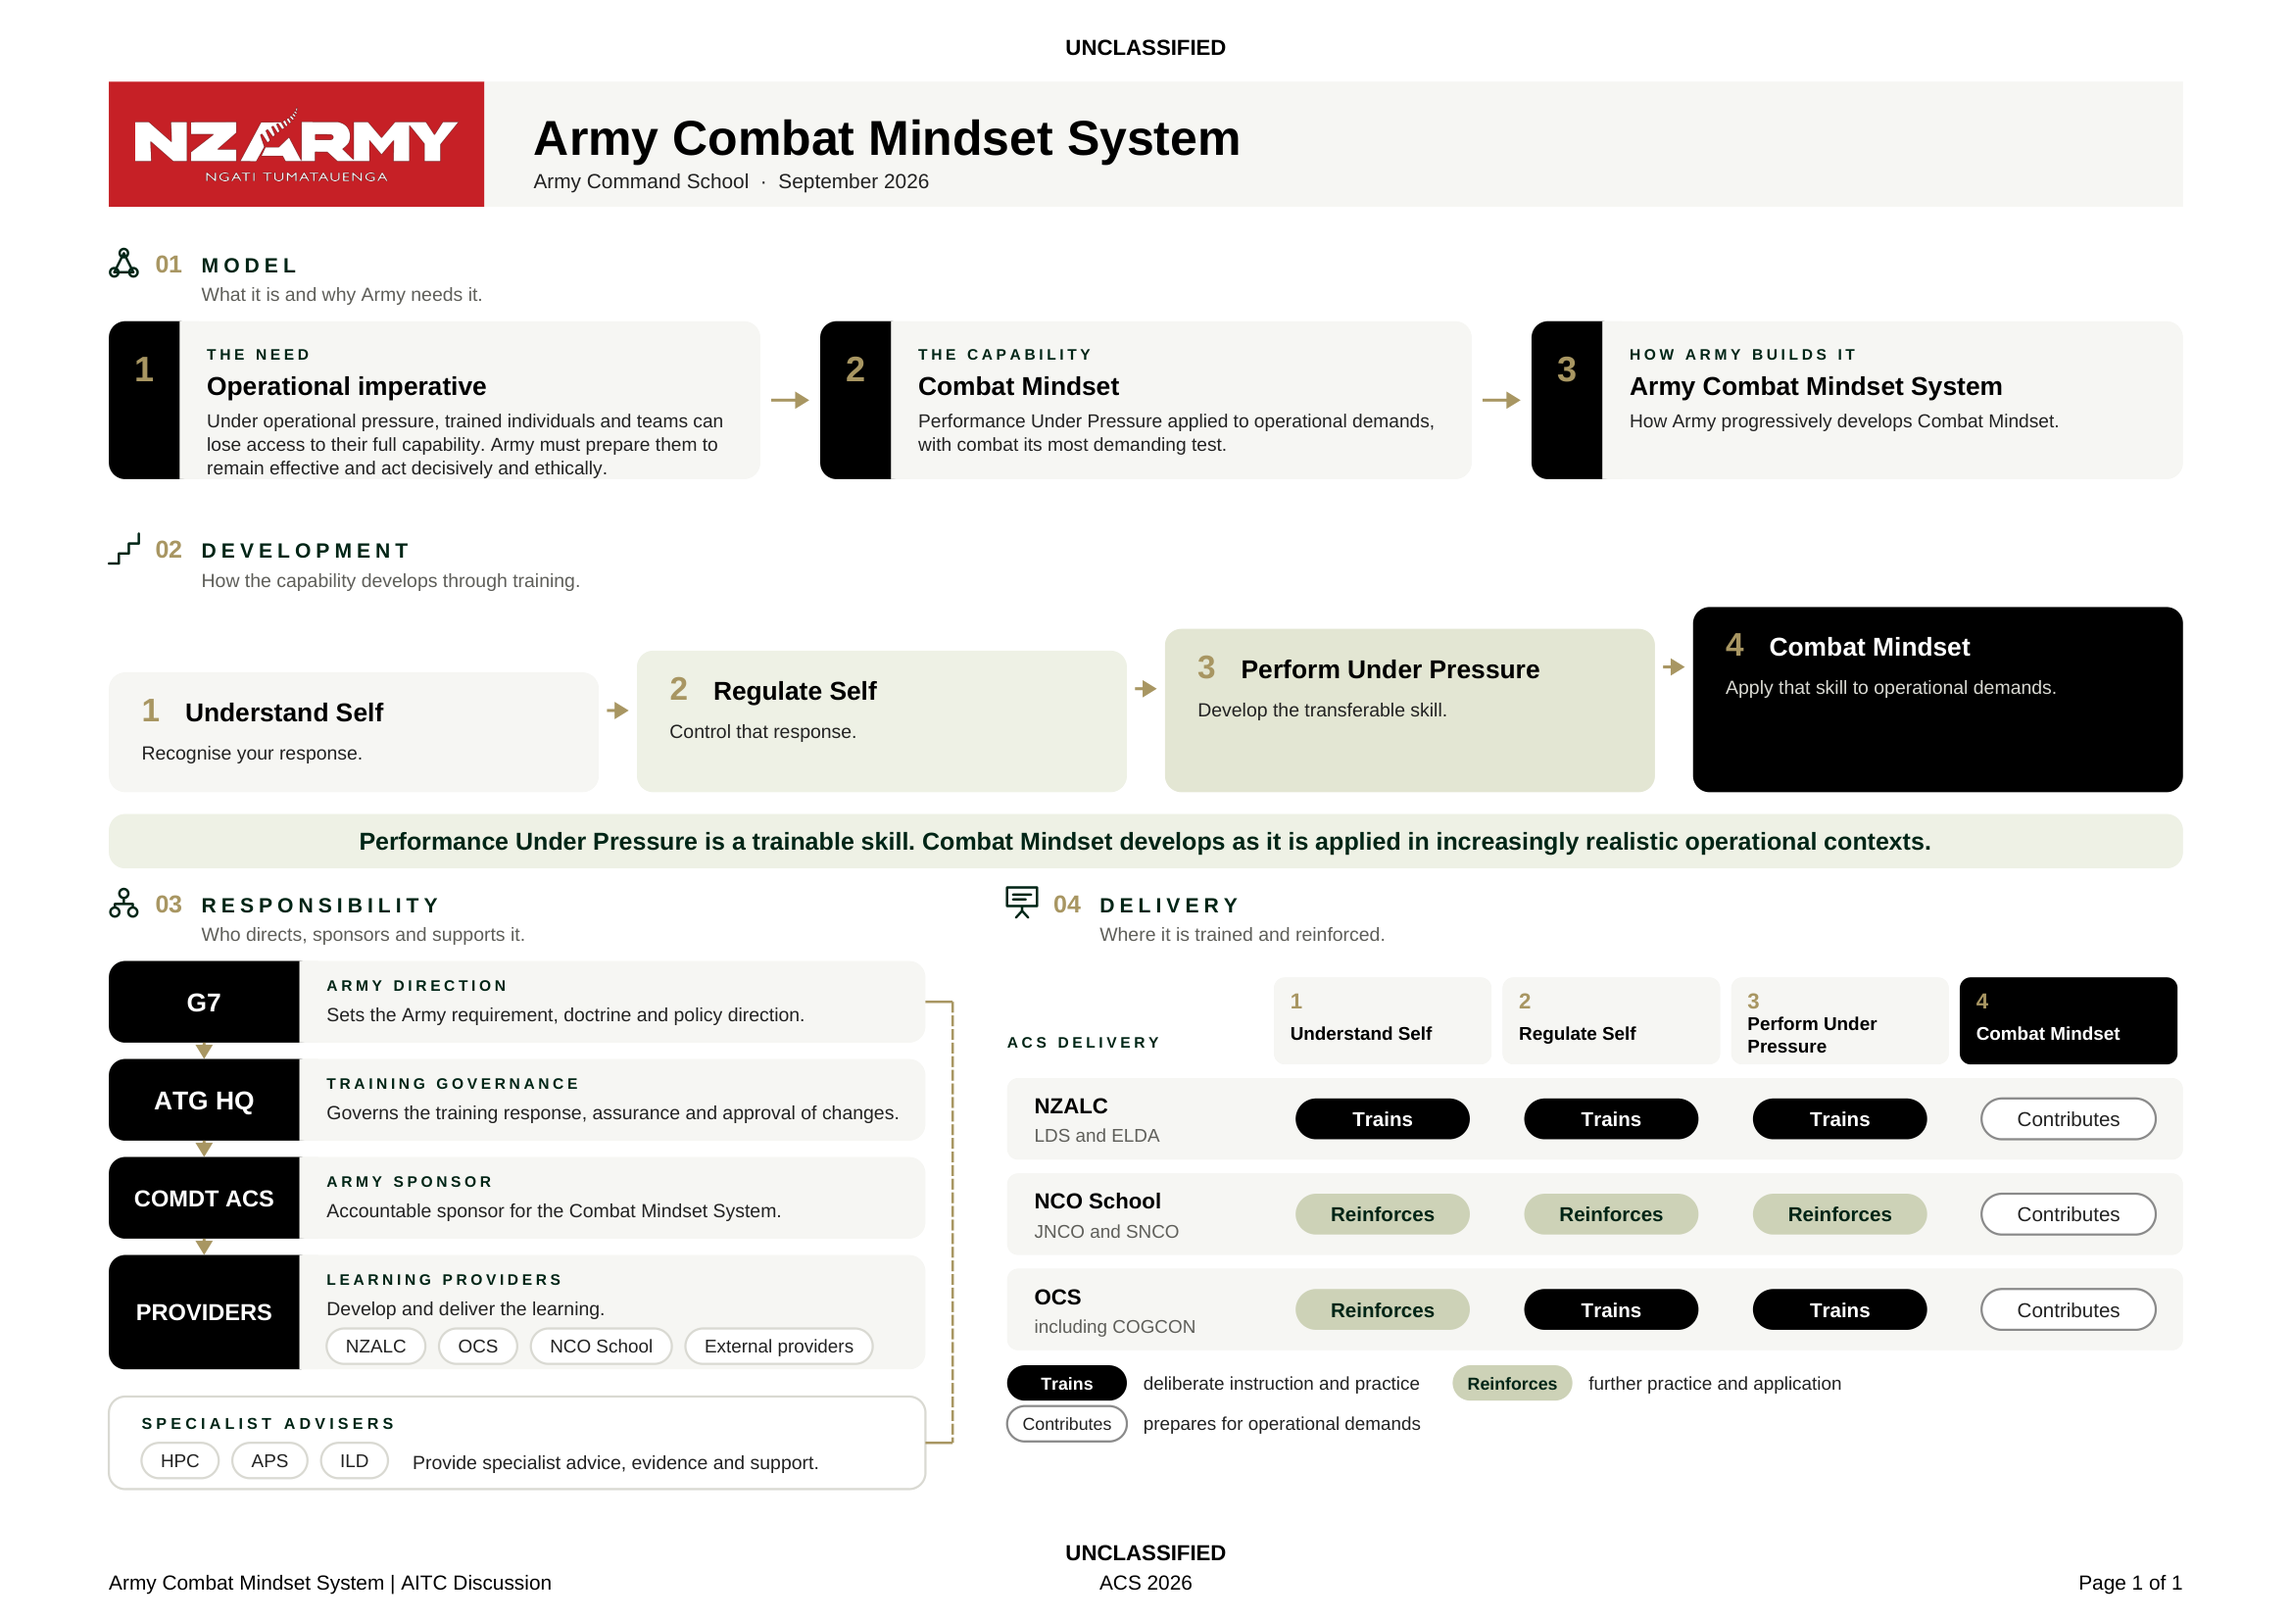
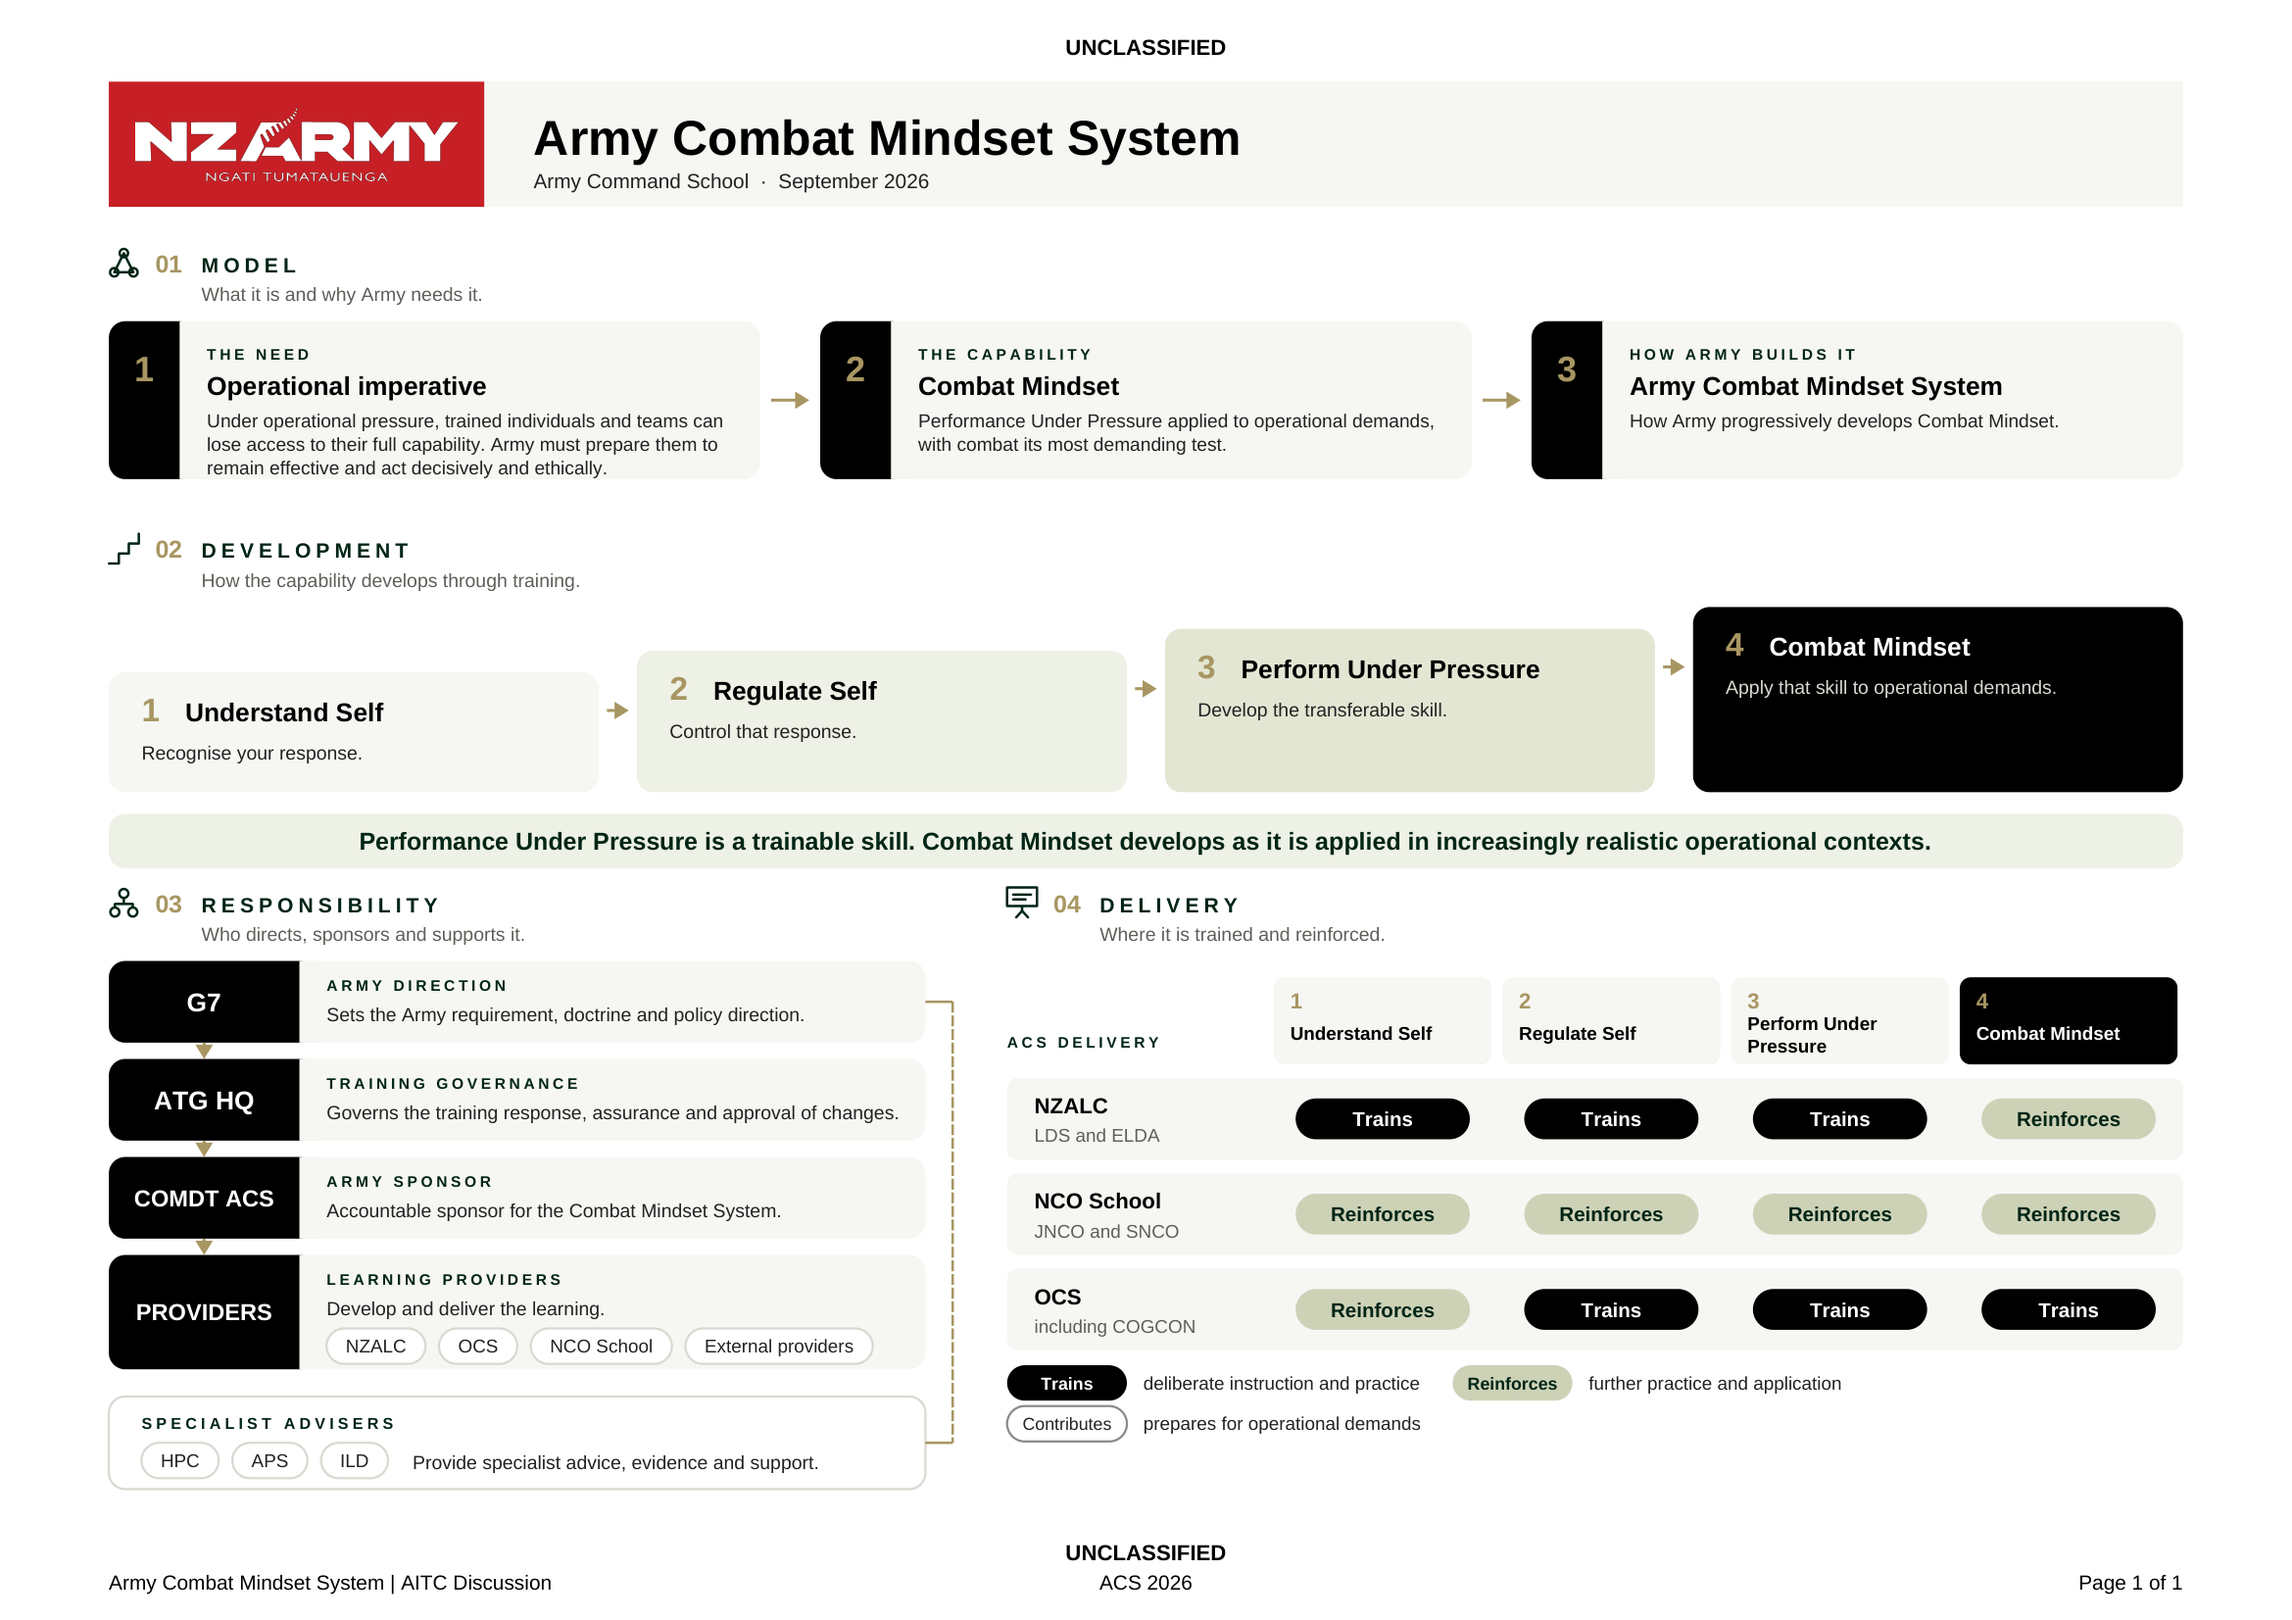
Army Combat Mindset System: Combat Mindset column allocations
NZALC and NCO School reinforce Combat Mindset; OCS, including COGCON,
trains it.

Claude-Session: https://claude.ai/code/session_01LgFPs3fMSncBgbYQ3PfA3o

Changed region(s): [[0.8427, 0.6788, 0.9363, 0.833]]

diff --git a/build_army_combat_mindset_development_system.py b/build_army_combat_mindset_development_system.py
@@ -58,9 +58,9 @@ ADVISERS = ("SPECIALIST ADVISERS", ["HPC", "APS", "ILD"],
             "Provide specialist advice, evidence and support.")
 MATRIX_COLS = ["Understand Self", "Regulate Self", "Perform Under Pressure", "Combat Mindset"]
 MATRIX = [
-    ("NZALC", "LDS and ELDA", ["Trains", "Trains", "Trains", "Contributes"]),
-    ("NCO School", "JNCO and SNCO", ["Reinforces", "Reinforces", "Reinforces", "Contributes"]),
-    ("OCS", "including COGCON", ["Reinforces", "Trains", "Trains", "Contributes"]),
+    ("NZALC", "LDS and ELDA", ["Trains", "Trains", "Trains", "Reinforces"]),
+    ("NCO School", "JNCO and SNCO", ["Reinforces", "Reinforces", "Reinforces", "Reinforces"]),
+    ("OCS", "including COGCON", ["Reinforces", "Trains", "Trains", "Trains"]),
 ]
 VERBS = [
     ("Trains", "deliberate instruction and practice"),
